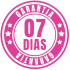
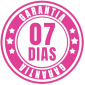
imagem

diff --git a/index.html b/index.html
@@ -393,7 +393,7 @@ Coach de saúde certificado
 <a class="main-btn" href="https://smoothdiet.pay.clickbank.net/?cbitems=10&cbfid=49613&cbskin=20702&cbexit=445" rel="nofollow">
   APROVEITE R$100 OFF
   <span>Sim, eu quero perder peso!!</span>
-<img src="assets/images/small-days.png" alt="">
+<img src="assets/images/min-garantia.png" alt="">
 </a>
 <div class="clearfix"></div>
 <img class="cards cards-main" src="assets/images/cards.png" alt="">
